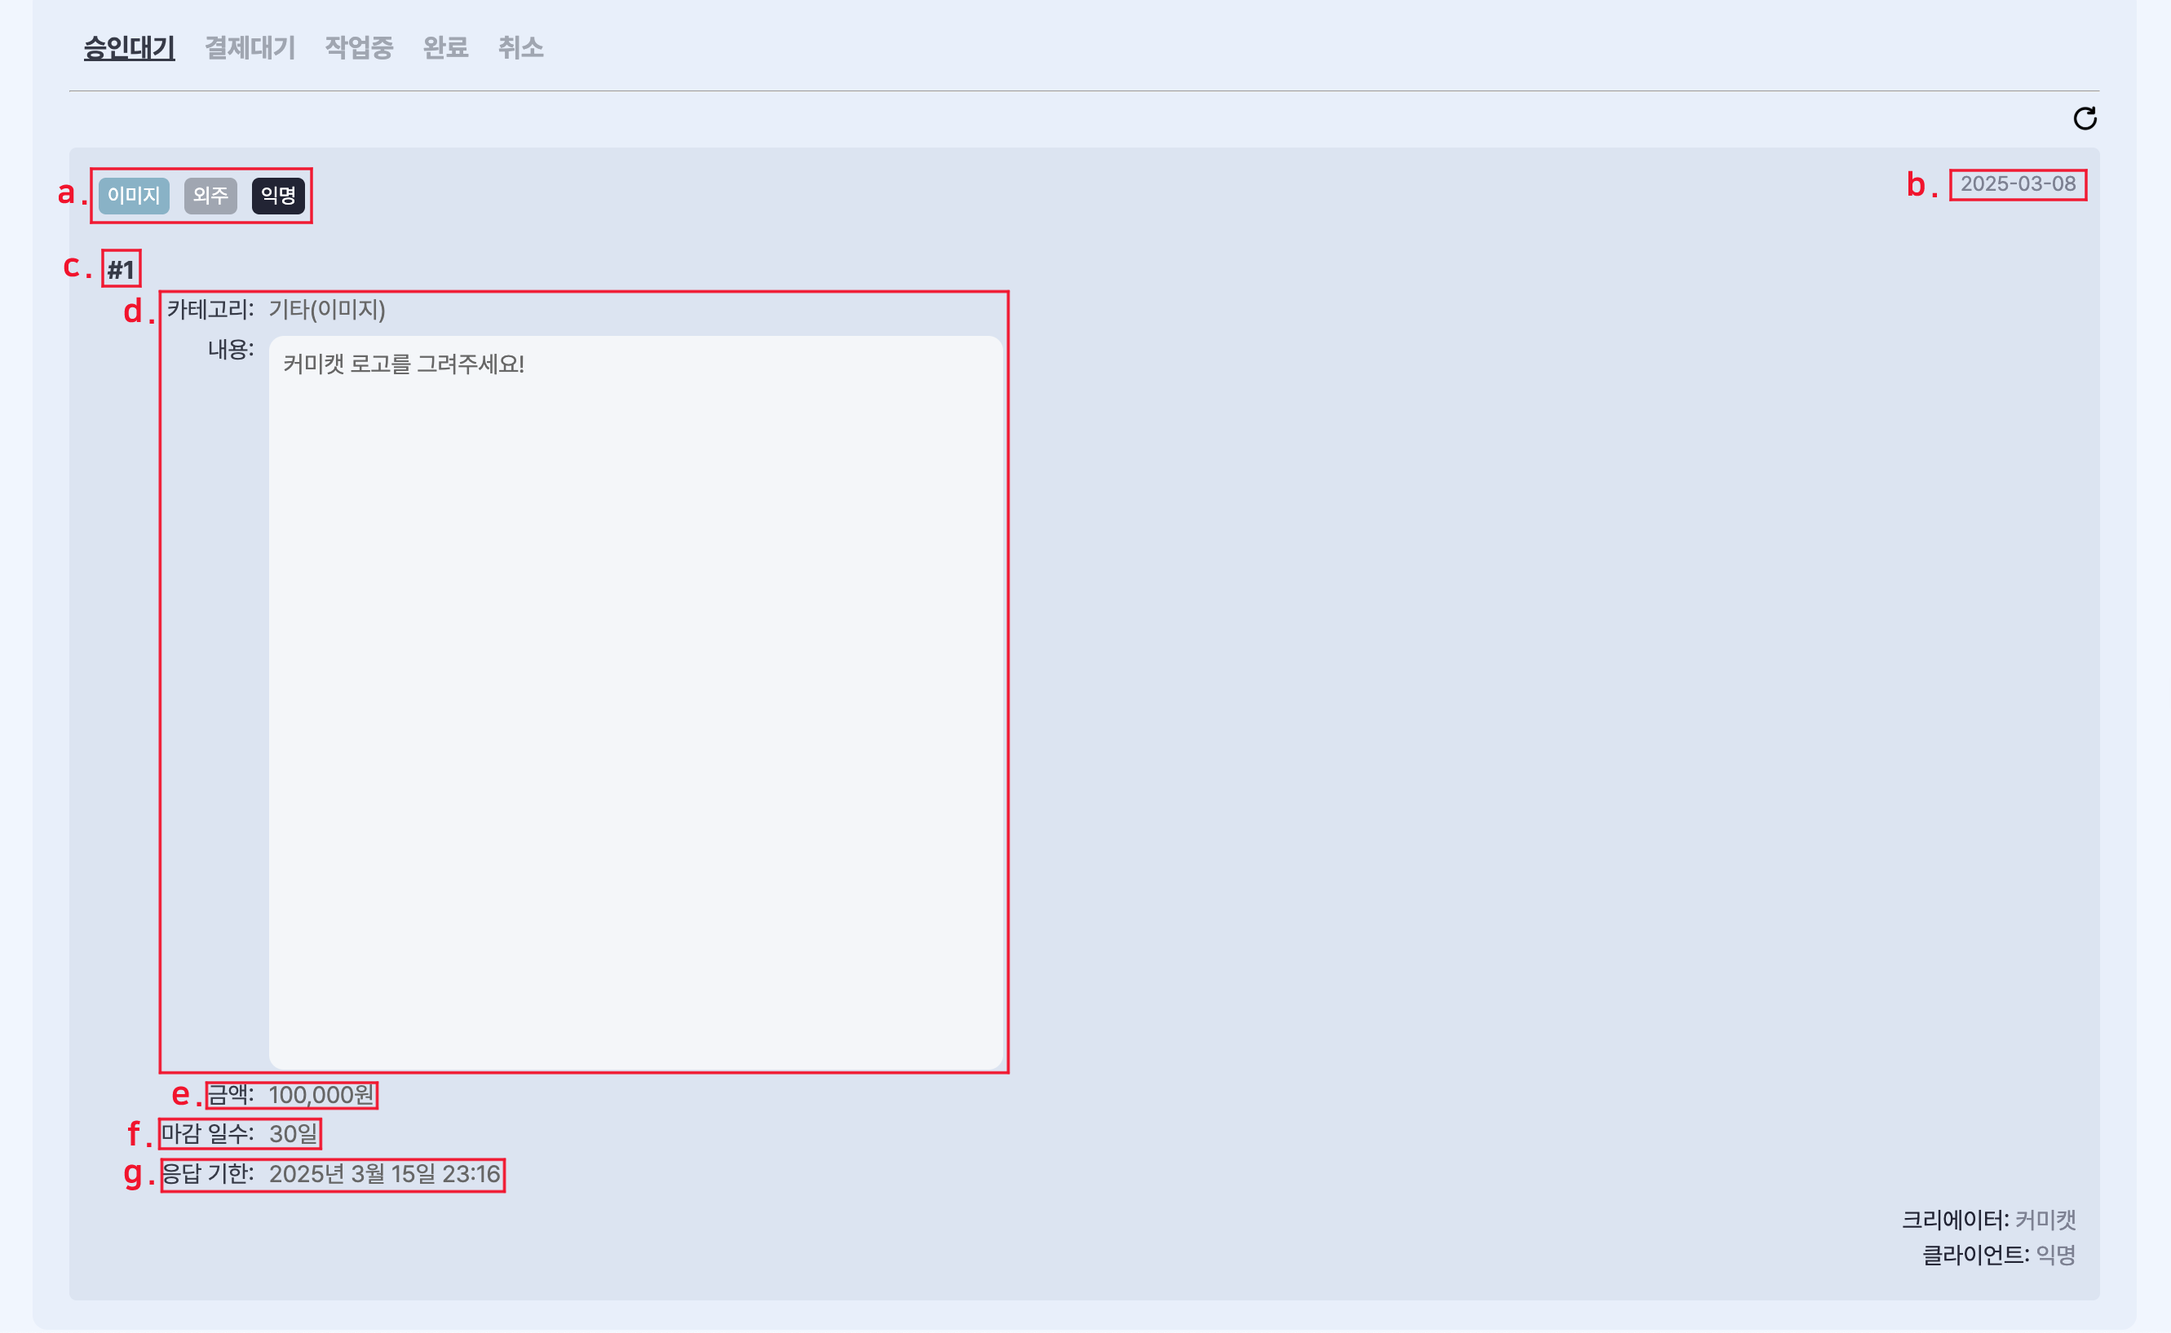
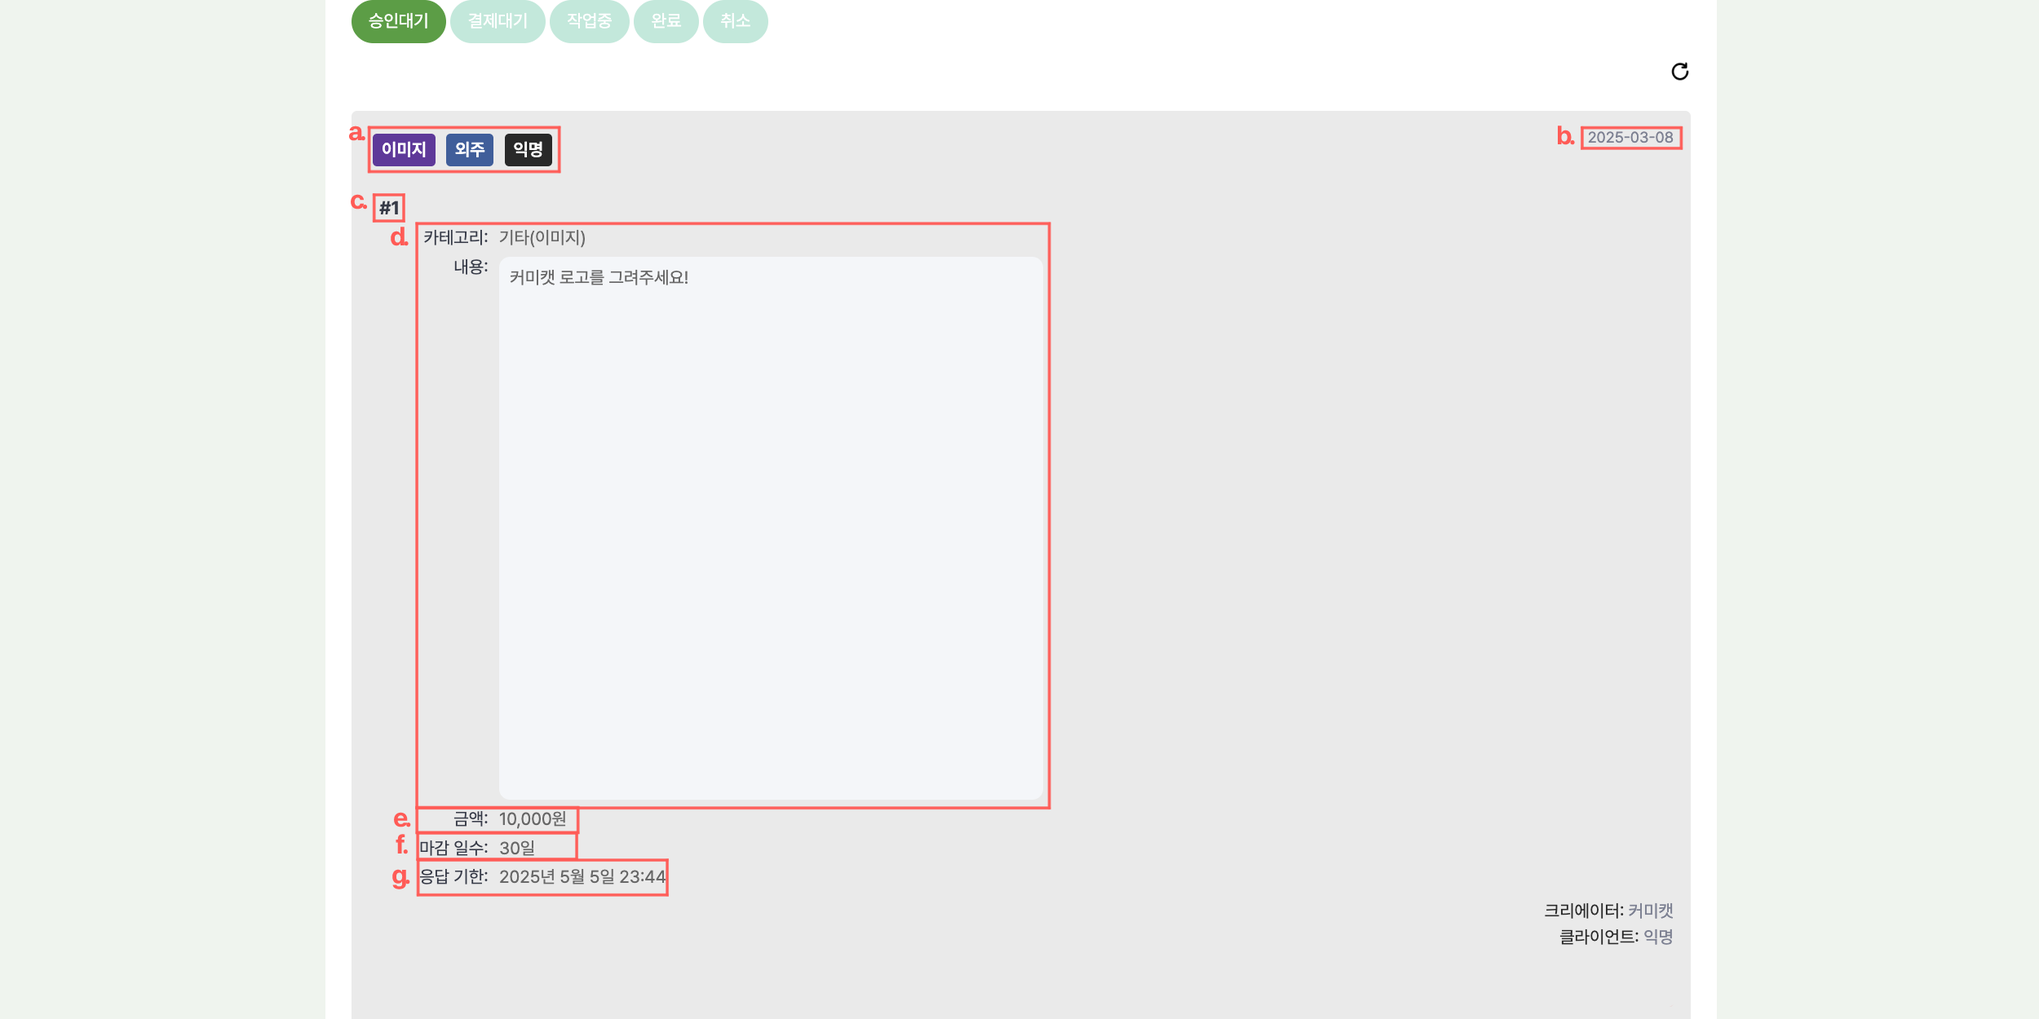
design: renual notices

diff --git a/components/pages/NoticeMain/NoticeB.tsx b/components/pages/NoticeMain/NoticeB.tsx
@@ -14,7 +14,7 @@ const NoticeB = () => {
         </div>
         <br />
         <p>2. 프로필 설정 페이지에서 아이디, 닉네임 등을 설정한 후 저장해주세요.</p>
-        <div className={styles.image} style={{ paddingBottom: '64.5%' }}>
+        <div className={styles.image2}>
           <Image fill sizes="100%" priority src="/guide2.png" alt="Guide 2" />
         </div>
         <p className={styles.comment}>&emsp;- 아이디: 본인의 프로필 페이지의 주소에 사용되는 식별자</p>
@@ -27,7 +27,7 @@ const NoticeB = () => {
         <p className={styles.comment}>&emsp;&emsp;* 본인의 X 계정 자기소개에 본인의 커미캣 프로필 페이지 주소를 적어놓아야 수수료 혜택을 받을 수 있습니다.</p>
         <br />
         <p>3. 이메일 인증 후, 작업 대금을 지급받을 예금주명, 은행이름, 계좌번호를 등록해주세요.</p>
-        <div className={styles.image} style={{ paddingBottom: '42%' }}>
+        <div className={styles.image2}>
           <Image fill sizes="100%" priority src="/guide3.png" alt="Guide 3" />
         </div>
         <p className={styles.comment}>&emsp;a. 이메일: 로그인 시 사용됩니다.</p>
@@ -39,8 +39,8 @@ const NoticeB = () => {
         <p className={styles.comment}>&emsp;d. 크리에이터로서 작업 대금 지급, 클라이언트로서 입금 및 환불 처리에 이용되는 계좌 정보</p>
         <br />
         <p>4. 크리에이터 등록 후, 크리에이터 설정을 완료해주세요.</p>
-        <div className={styles.image} style={{ paddingBottom: '66.2%' }}>
-          <Image fill sizes="100%" priority src="/guide4.png" alt="Guide 4" />
+        <div className={styles.image2}>
+          <Image fill sizes="100%" priority src="/guide4-1.png" alt="Guide 4 1" />
         </div>
         <p className={styles.comment}>&emsp;a. 프로필에 등록한 X 계정 자기소개에 본인의 프로필 페이지 주소를 적고 체크하시면 5%의 수수료로 이용하실 수 있습니다.</p>
         <p className={styles.comment}>&emsp;&emsp;* 허위 기재시 수수료 혜택을 받지 못하실 수 있습니다.</p>
@@ -55,14 +55,16 @@ const NoticeB = () => {
         <p className={styles.comment}>&emsp;&emsp;* 작업중 허용시 요청이 작업중 상태일 때만 dm을 주고받을 수 있습니다.</p>
         <p className={styles.comment}>&emsp;g. 프로필 페이지에 게시되는 자기소개서</p>
         <p className={styles.comment}>&emsp;&emsp;* 이미지 최대 10장, 유튜브 링크 등을 활용할 수 있습니다.</p>
-        <p className={styles.comment}>&emsp;h. 전달할 작업물의 유형</p>
-        <p className={styles.comment}>&emsp;i. 요청 받을 카테고리</p>
-        <p className={styles.comment}>&emsp;j. 작업 요청의 최소 금액</p>
-        <p className={styles.comment}>&emsp;k. 작업 요청의 승인/거절 응답 기한</p>
-        <p className={styles.comment}>&emsp;l. 작업 요청 승인 후 결제가 완료된 시점부터 계산되는 완료 기한</p>
+        <div className={styles.image}>
+          <Image fill sizes="100%" priority src="/guide4-2.png" alt="Guide 4 2" />
+        </div>
+        <p className={styles.comment}>&emsp;h. 전달할 작업물의 유형과 카테고리</p>
+        <p className={styles.comment}>&emsp;i. 작업 요청의 최소 금액</p>
+        <p className={styles.comment}>&emsp;j. 작업 요청의 승인/거절 응답 기한</p>
+        <p className={styles.comment}>&emsp;k. 클라이언트의 결제가 완료된 시점부터 계산되는 완료 기한</p>
         <br />
         <p>5. 작업 상태, 알림, dm 등은 사이트 상단에서 확인할 수 있습니다. 작업 요청이 들어올 경우, b를 눌러 작업 페이지로 이동해주세요.</p>
-        <div className={styles.image} style={{ paddingBottom: '46.5%' }}>
+        <div className={styles.image}>
           <Image fill sizes="100%" priority src="/guide5.png" alt="Guide 5" />
         </div>
         <p className={styles.comment}>&emsp;a. 작업 요청이 들어오거나 요청의 상태가 변경될 때, 그리고 기타 알림 사항이 있을 때 받는 알림 페이지</p>
@@ -72,14 +74,14 @@ const NoticeB = () => {
         <p className={styles.comment}>&emsp;&emsp;* dm은 반드시 작업과 관련된 내용만 주고받아야 합니다.</p>
         <br />
         <p>6. 승인대기 상태의 요청을 처리해주세요.</p>
-        <div className={styles.image} style={{ paddingBottom: '61.4%' }}>
+        <div className={styles.image}>
           <Image fill sizes="100%" priority src="/guide6.png" alt="Guide 6" />
         </div>
         <p className={styles.comment}>&emsp;a. 요청의 유형</p>
         <p className={styles.comment}>&emsp;b. 요청이 생성된 날짜</p>
         <p className={styles.comment}>&emsp;c. 작업의 번호</p>
         <p className={styles.comment}>&emsp;d. 요청의 카테고리와 내용</p>
-        <p className={styles.comment}>&emsp;&emsp;* 요청의 내용또한 공개 유형일 경우 외부에 공개됩니다.</p>
+        <p className={styles.comment}>&emsp;&emsp;* 요청의 내용또한 비공개 유형이 아닐 경우 외부에 공개됩니다.</p>
         <p className={styles.comment}>&emsp;e. 클라이언트가 지불할 작업의 결제 금액</p>
         <p className={styles.comment}>&emsp;&emsp;* 작업 완료 후, 크리에이터는 이 금액에서 중개 수수료를 뺀 금액을 대금으로 지급받습니다.</p>
         <p className={styles.comment}>&emsp;f. 작업 요청 승인 후 결제가 완료된 시점부터 계산되는 완료 기한 일수</p>
@@ -94,11 +96,11 @@ const NoticeB = () => {
         <p>8. 입금 처리가 됐을 경우 요청 내용에 맞게 작업 완료 기한 전까지 작업물을 완성해주세요.</p>
         <p className={styles.comment}>&emsp;* 비공개 요청이 아니라면 상세 페이지에 등록될 샘플 파일들도 준비해주세요.</p>
         <p className={styles.comment}>&emsp;* 작업 완료 기한이 지났을 경우, 요청이 취소되고 프로필 페이지의 작업 완료율이 내려갑니다.</p>
-        <div className={styles.image} style={{ paddingBottom: '63%' }}>
+        <div className={styles.image}>
           <Image fill sizes="100%" priority src="/guide7.png" alt="Guide 7" />
         </div>
         <p className={styles.comment}>&emsp;* 작업중 상태의 카드를 클릭하면 작업 완료를 위한 양식이 열립니다.</p>
-        <div className={styles.image} style={{ paddingBottom: '63%' }}>
+        <div className={styles.image}>
           <Image fill sizes="100%" priority src="/guide8.png" alt="Guide 8" />
         </div>
         <p className={styles.comment}>&emsp;a. 요청한 클라이언트에게 전달할 파일들</p>
@@ -119,24 +121,23 @@ const NoticeB = () => {
         <p>9. 작업 완료 후, 대금을 지급받습니다.</p>
         <p className={styles.comment}>&emsp;* 대금 지급은 24시간 내로 자동으로 이루어집니다.</p>
         <p className={styles.comment}>&emsp;* 설정의 계좌 정보를 다시 확인해주세요.</p>
-        <div className={styles.image} style={{ paddingBottom: '71.8%' }}>
+        <div className={styles.image}>
           <Image fill sizes="100%" priority src="/guide9.png" alt="Guide 9" />
         </div>
         <p className={styles.comment}>&emsp;* 완료 상태 작업 페이지에서 클라이언트/크리에이터는 파일을 다운로드할 수 있습니다.</p>
         <p className={styles.comment}>&emsp;* 비공개 요청이 아니라면 상세 페이지의 링크를 확인할 수 있습니다.</p>
         <br />
         <p>10. 상세 페이지가 게시됩니다.</p>
-        <div className={styles.image} style={{ paddingBottom: '45.6%' }}>
+        <div className={styles.image}>
           <Image fill sizes="100%" priority src="/guide10.png" alt="Guide 10" />
         </div>
-        <br />
         <p>클라이언트에게 어떤 작업을 요청 받는지 다음과 같이 알릴 수 있습니다.</p>
         <p className={styles.comment}>&emsp;* 프로필 설정의 소개란</p>
         <p className={styles.comment}>&emsp;* 포트폴리오</p>
         <p className={styles.comment}>&emsp;* 별다른 설명을 적지 않고, 그동안의 결과물들로만 어떤 작업을 하는지 짐작하게 하셔도 됩니다.</p>
         <br />
         <p>11. 포트폴리오(선택사항) 페이지입니다.</p>
-        <div className={styles.image} style={{ paddingBottom: '50%' }}>
+        <div className={styles.image}>
           <Image fill sizes="100%" priority src="/guide11.png" alt="Guide 11" />
         </div>
         <p className={styles.comment}>&emsp;a. 이미지를 업로드(최대 10장)</p>

diff --git a/components/pages/NoticeMain/NoticeC.tsx b/components/pages/NoticeMain/NoticeC.tsx
@@ -14,7 +14,7 @@ const NoticeC = () => {
         </div>
         <br />
         <p>2. 프로필 설정 페이지에서 아이디, 닉네임 등을 설정한 후 저장해주세요.</p>
-        <div className={styles.image} style={{ paddingBottom: '64.5%' }}>
+        <div className={styles.image2}>
           <Image fill sizes="100%" priority src="/guide2.png" alt="Guide 2" />
         </div>
         <p className={styles.comment}>&emsp;- 아이디: 본인의 프로필 페이지의 주소에 사용되는 식별자</p>
@@ -25,7 +25,7 @@ const NoticeC = () => {
         <p className={styles.comment}>&emsp;- X 링크: 본인의 X(트위터) 링크</p>
         <br />
         <p>3. 이메일 인증 후, 입금/환불에 사용할 예금주명, 은행이름, 계좌번호를 등록해주세요.</p>
-        <div className={styles.image} style={{ paddingBottom: '42%' }}>
+        <div className={styles.image2}>
           <Image fill sizes="100%" priority src="/guide3.png" alt="Guide 3" />
         </div>
         <p className={styles.comment}>&emsp;a. 이메일: 로그인 시 사용됩니다.</p>
@@ -35,7 +35,7 @@ const NoticeC = () => {
         <p className={styles.comment}>&emsp;c. 클라이언트로서 입금 및 환불 처리, 크리에이터로서 작업 대금 지급에 이용되는 계좌 정보</p>
         <br />
         <p>4. 원하는 크리에이터 프로필 페이지에서 작업을 요청해주세요.</p>
-        <div className={styles.image} style={{ paddingBottom: '48%' }}>
+        <div className={styles.image}>
           <Image fill sizes="100%" priority src="/guide12.png" alt="Guide 12" />
         </div>
         <p className={styles.comment}>&emsp;a. 모집중: 모집중일때만 요청 가능합니다.</p>
@@ -47,22 +47,25 @@ const NoticeC = () => {
         <p className={styles.comment}>&emsp;f. 작업 요청 버튼</p>
         <p className={styles.comment}>&emsp;g. DM 전송 버튼</p>
         <p className={styles.comment}>&emsp;h. 크리에이터의 작업 목록</p>
-        <p className={styles.comment}>&emsp;i. 클라이언트로서 요청한 작업 목록</p>
-        <p className={styles.comment}>&emsp;j. 비공개가 아닌 작업들을 볼 수 있습니다.</p>
+        <p className={styles.comment}>&emsp;i. 크리에이터 소개</p>
+        <p className={styles.comment}>&emsp;j. 클라이언트로서 요청한 작업 목록</p>
+        <p className={styles.comment}>&emsp;k. 비공개가 아닌 작업들을 볼 수 있습니다.</p>
         <br />
         <p>5. 요청 내용을 전달해주세요.</p>
-        <div className={styles.image} style={{ paddingBottom: '80%' }}>
+        <div className={styles.image2}>
           <Image fill sizes="100%" priority src="/guide13.png" alt="Guide 13" />
         </div>
         <p className={styles.comment}>&emsp;* 작업을 요청하기 전에 이메일 인증, 아이디, 닉네임, 계좌 정보 등록이 필요합니다.</p>
         <p className={styles.comment}>&emsp;a. 작업의 카테고리</p>
         <p className={styles.comment}>&emsp;b. 작업 요청 내용</p>
         <p className={styles.comment}>&emsp;&emsp;* 비공개 요청이 아닌 경우 요청 내용이 상세 페이지에 공개됩니다.</p>
+        <p className={styles.comment}>&emsp;&emsp;* 파일 전달이 필요한 경우, 외부 링크를 활용해주세요.</p>
+        <p className={styles.comment}>&emsp;&emsp;* 가능한 한 모든 요청 사항을 자세히 전달해주세요.</p>
         <p className={styles.comment}>&emsp;c. 크리에이터가 설정한 최소 금액 이상으로 요청 금액을 설정해주세요.</p>
         <p className={styles.comment}>&emsp;d. 작업 유형</p>
         <br />
         <p>6. 요청 완료 후, 응답 기한까지 크리에이터의 응답을 기다려주세요.</p>
-        <div className={styles.image} style={{ paddingBottom: '61.4%' }}>
+        <div className={styles.image}>
           <Image fill sizes="100%" priority src="/guide14.png" alt="Guide 14" />
         </div>
         <p className={styles.comment}>&emsp;a. 요청의 유형입니다.</p>
@@ -76,31 +79,30 @@ const NoticeC = () => {
         <p className={styles.comment}>&emsp;&emsp;* 응답 기한이 지날 경우, 요청은 자동으로 거절됩니다.</p>
         <br />
         <p>7. 요청이 승낙됐다면, 3일 내로 결제를 진행해주세요.</p>
-        <div className={styles.image} style={{ paddingBottom: '24.5%' }}>
+        <div className={styles.image}>
           <Image fill sizes="100%" priority src="/guide15.png" alt="Guide 15" />
         </div>
         <p className={styles.comment}>&emsp;a. 입금 기한까지 예금주명과 동일한 이름과 정확한 입금 금액으로 입금 계좌에 입금해주세요.</p>
         <p className={styles.comment}>&emsp;* 반복적으로 입금 기한을 넘길 경우, 서비스 이용제한 될 수 있습니다.</p>
         <br />
         <p>8. 크리에이터가 작업을 완료할 때까지 기다려주세요.</p>
-        <div className={styles.image} style={{ paddingBottom: '63%' }}>
+        <div className={styles.image}>
           <Image fill sizes="100%" priority src="/guide7.png" alt="Guide 7" />
         </div>
         <p className={styles.comment}>&emsp;* 작업 완료 기한이 지났을 경우, 요청이 취소되고 입금 금액은 자동으로 환불됩니다.</p>
         <br />
         <p>9. 작업이 완료됐다면, 요청의 완료 탭에서 파일을 수령해주세요.</p>
-        <div className={styles.image} style={{ paddingBottom: '71.8%' }}>
+        <div className={styles.image}>
           <Image fill sizes="100%" priority src="/guide9.png" alt="Guide 9" />
         </div>
         <p className={styles.comment}>&emsp;* 완료 상태 작업 페이지에서 클라이언트/크리에이터는 파일을 다운로드할 수 있습니다.</p>
         <p className={styles.comment}>&emsp;* 비공개 요청이 아니라면 상세 페이지의 링크를 확인할 수 있습니다.</p>
         <br />
-        <p>10. 상세 페이지가 게시됩니다.</p>
-        <div className={styles.image} style={{ paddingBottom: '45.6%' }}>
+        <p>10. 비공개 요청이 아니라면, 상세 페이지가 게시됩니다.</p>
+        <div className={styles.image}>
           <Image fill sizes="100%" priority src="/guide10.png" alt="Guide 10" />
         </div>
-        <br />
-        <p>11. 비공개 요청이 아니라면, 본인의 프로필 페이지의 요청한 작업 목록에 완료된 작업이 추가됩니다.</p>
+        <p className={styles.comment}>&emsp;* 비공개 요청이 아니라면, 본인의 프로필 페이지의 요청한 작업 목록에 완료된 작업이 추가됩니다.</p>
       </div>
     </NoticeMainContainer>
   )

diff --git a/app/Providers.tsx b/app/Providers.tsx
@@ -1,16 +1,6 @@
 'use client'
 
-import {
-  Suspense, lazy, useEffect, useState,
-} from 'react'
 import { QueryClient, QueryClientProvider, isServer } from '@tanstack/react-query'
-import { ReactQueryDevtools } from '@tanstack/react-query-devtools'
-
-declare global {
-  interface Window {
-    toggleDevtools: () => void
-  }
-}
 
 const makeQueryClient = () => {
   return new QueryClient({
@@ -30,33 +20,9 @@ const getQueryClient = () => {
   return browserQueryClient
 }
 
-const ReactQueryDevtoolsProduction = lazy(async () => {
-  return import('@tanstack/react-query-devtools/production').then((d) => {
-    return {
-      default: d.ReactQueryDevtools,
-    }
-  })
-})
-
 const Providers = ({ children }: Children) => {
   const queryClient = getQueryClient()
-  const [showDevtools, setShowDevtools] = useState(false)
-
-  useEffect(() => {
-    window.toggleDevtools = () => { setShowDevtools((old) => { return !old }) }
-  }, [])
-
-  return (
-    <QueryClientProvider client={queryClient}>
-      {children}
-      <ReactQueryDevtools initialIsOpen={false} />
-      {showDevtools && (
-        <Suspense fallback={null}>
-          <ReactQueryDevtoolsProduction />
-        </Suspense>
-      )}
-    </QueryClientProvider>
-  )
+  return <QueryClientProvider client={queryClient}>{children}</QueryClientProvider>
 }
 
 export default Providers

diff --git a/components/pages/NoticeMain/NoticeC.module.css b/components/pages/NoticeMain/NoticeC.module.css
@@ -3,7 +3,6 @@
 }
 
 .comment {
-  color: var(--color-gray2);
   font-size: 1.5rem;
   line-height: 150%;
 }
@@ -20,6 +19,13 @@
   width: 100%;
   padding-bottom: 50%;
 }
+
+.image2 {
+  position: relative;
+  width: 100%;
+  padding-bottom: 100%;
+}
+
 
 .image img {
   object-fit: contain;
@@ -43,10 +49,15 @@
   
   .headerText {
     font-size: 1.4rem;
-    margin-bottom: 0.6rem;
   }
 
   .comment {
     font-size: 1.1rem;
+  }
+
+  .hr {
+    margin-top: 1.6rem;
+    width: calc(100% + 3.2rem);
+    right: 1.6rem;
   }
 }

diff --git a/components/pages/NoticeMain/NoticeB.module.css b/components/pages/NoticeMain/NoticeB.module.css
@@ -3,7 +3,6 @@
 }
 
 .comment {
-  color: var(--color-gray2);
   font-size: 1.5rem;
   line-height: 150%;
 }
@@ -20,6 +19,13 @@
   width: 100%;
   padding-bottom: 50%;
 }
+
+.image2 {
+  position: relative;
+  width: 100%;
+  padding-bottom: 100%;
+}
+
 
 .image img {
   object-fit: contain;
@@ -43,7 +49,6 @@
   
   .headerText {
     font-size: 1.4rem;
-    margin-bottom: 0.6rem;
   }
 
   .comment {

diff --git a/components/common/cards/BaseRequestCards.module.css b/components/common/cards/BaseRequestCards.module.css
@@ -34,7 +34,7 @@
   margin-top: 2rem;
   padding: 2rem;
   color: var(--color-gray1);
-  background-color: var(--color-gray5);
+  background-color: var(--color-gray13);
 }
 
 .linkContainer {
